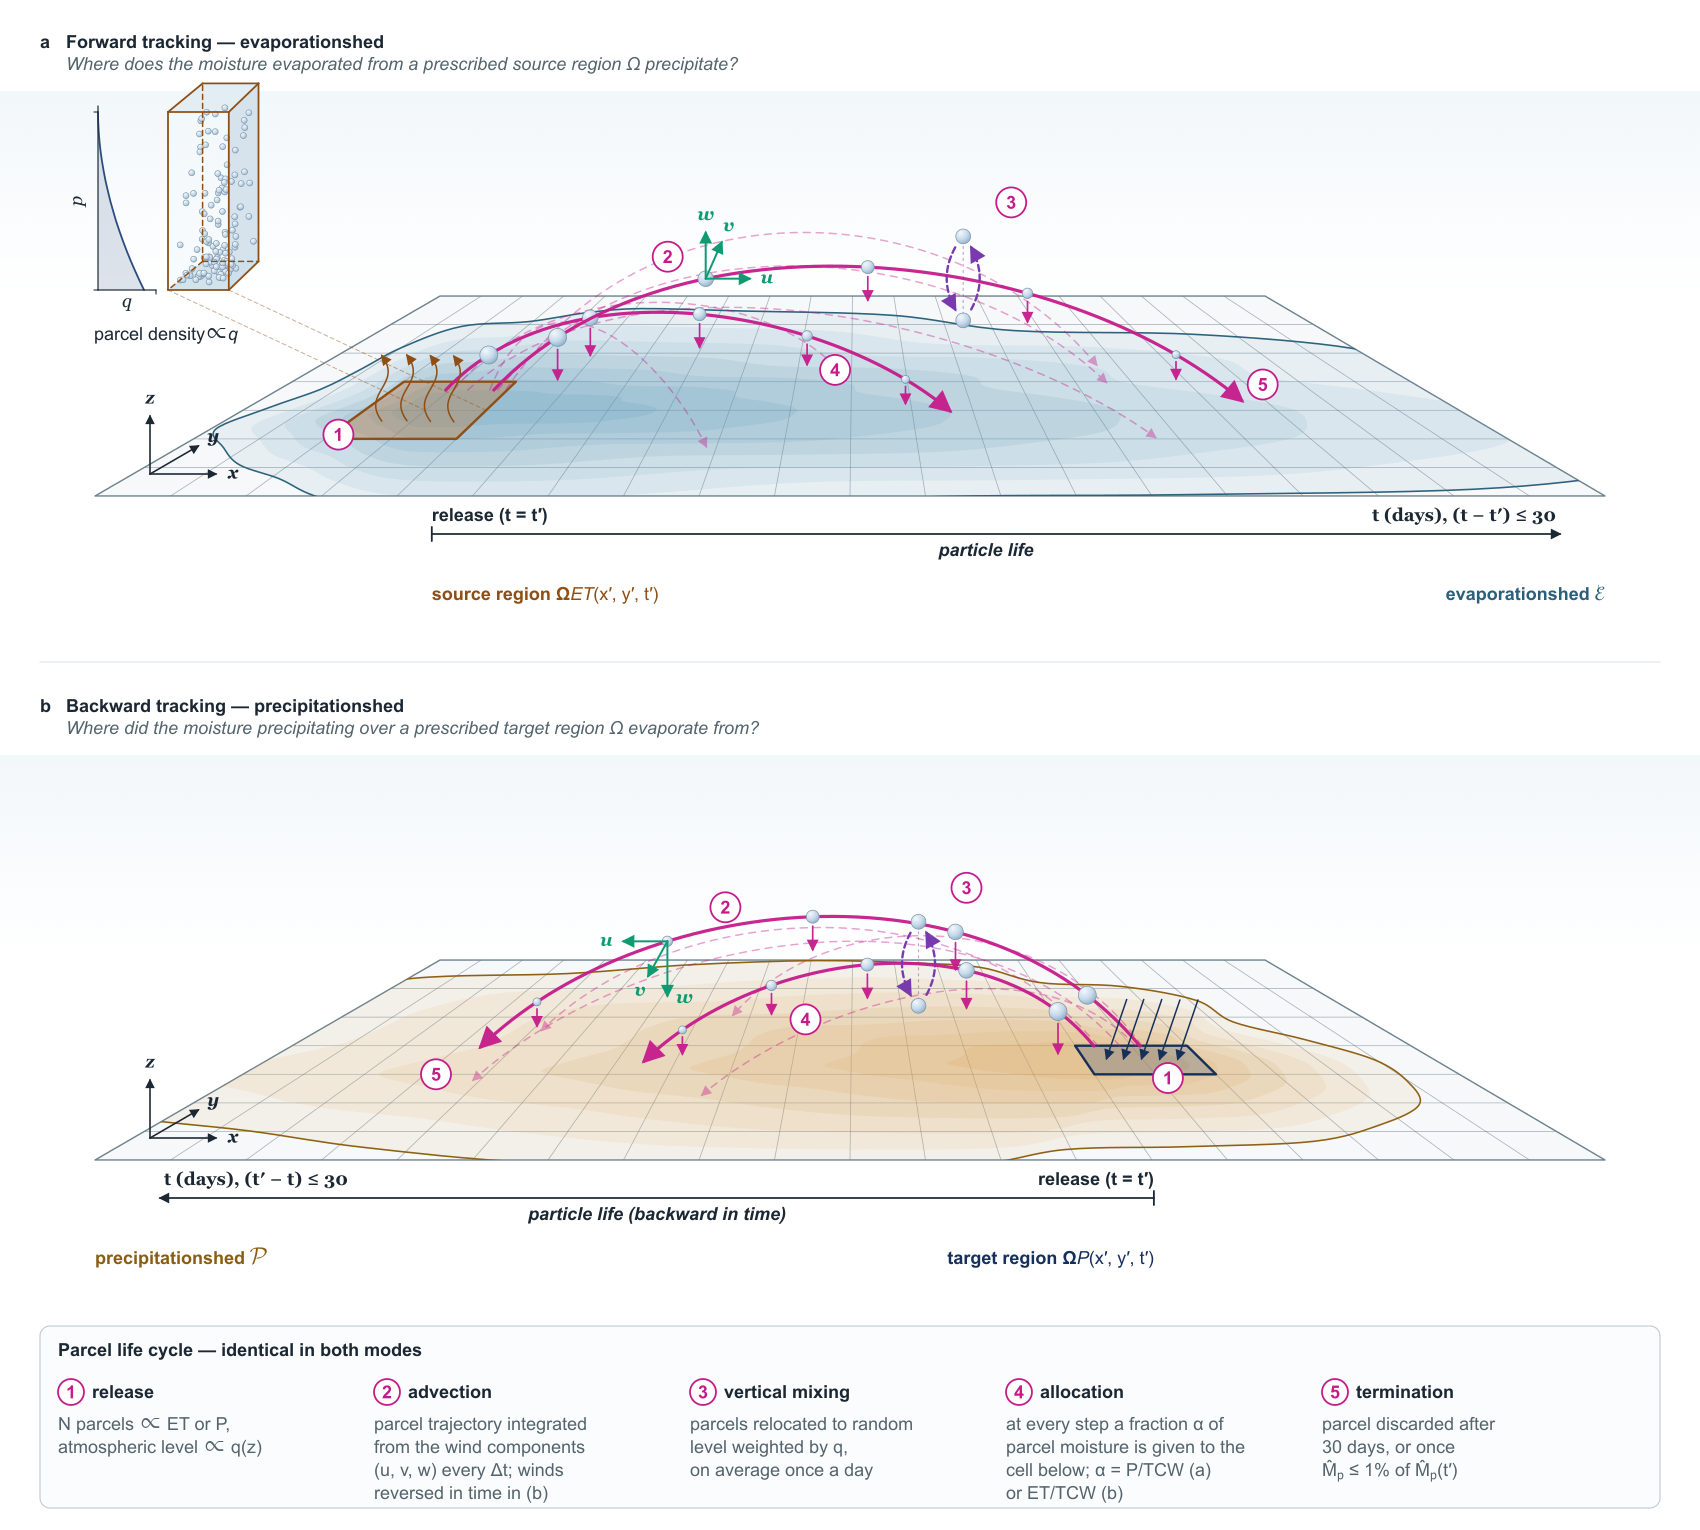
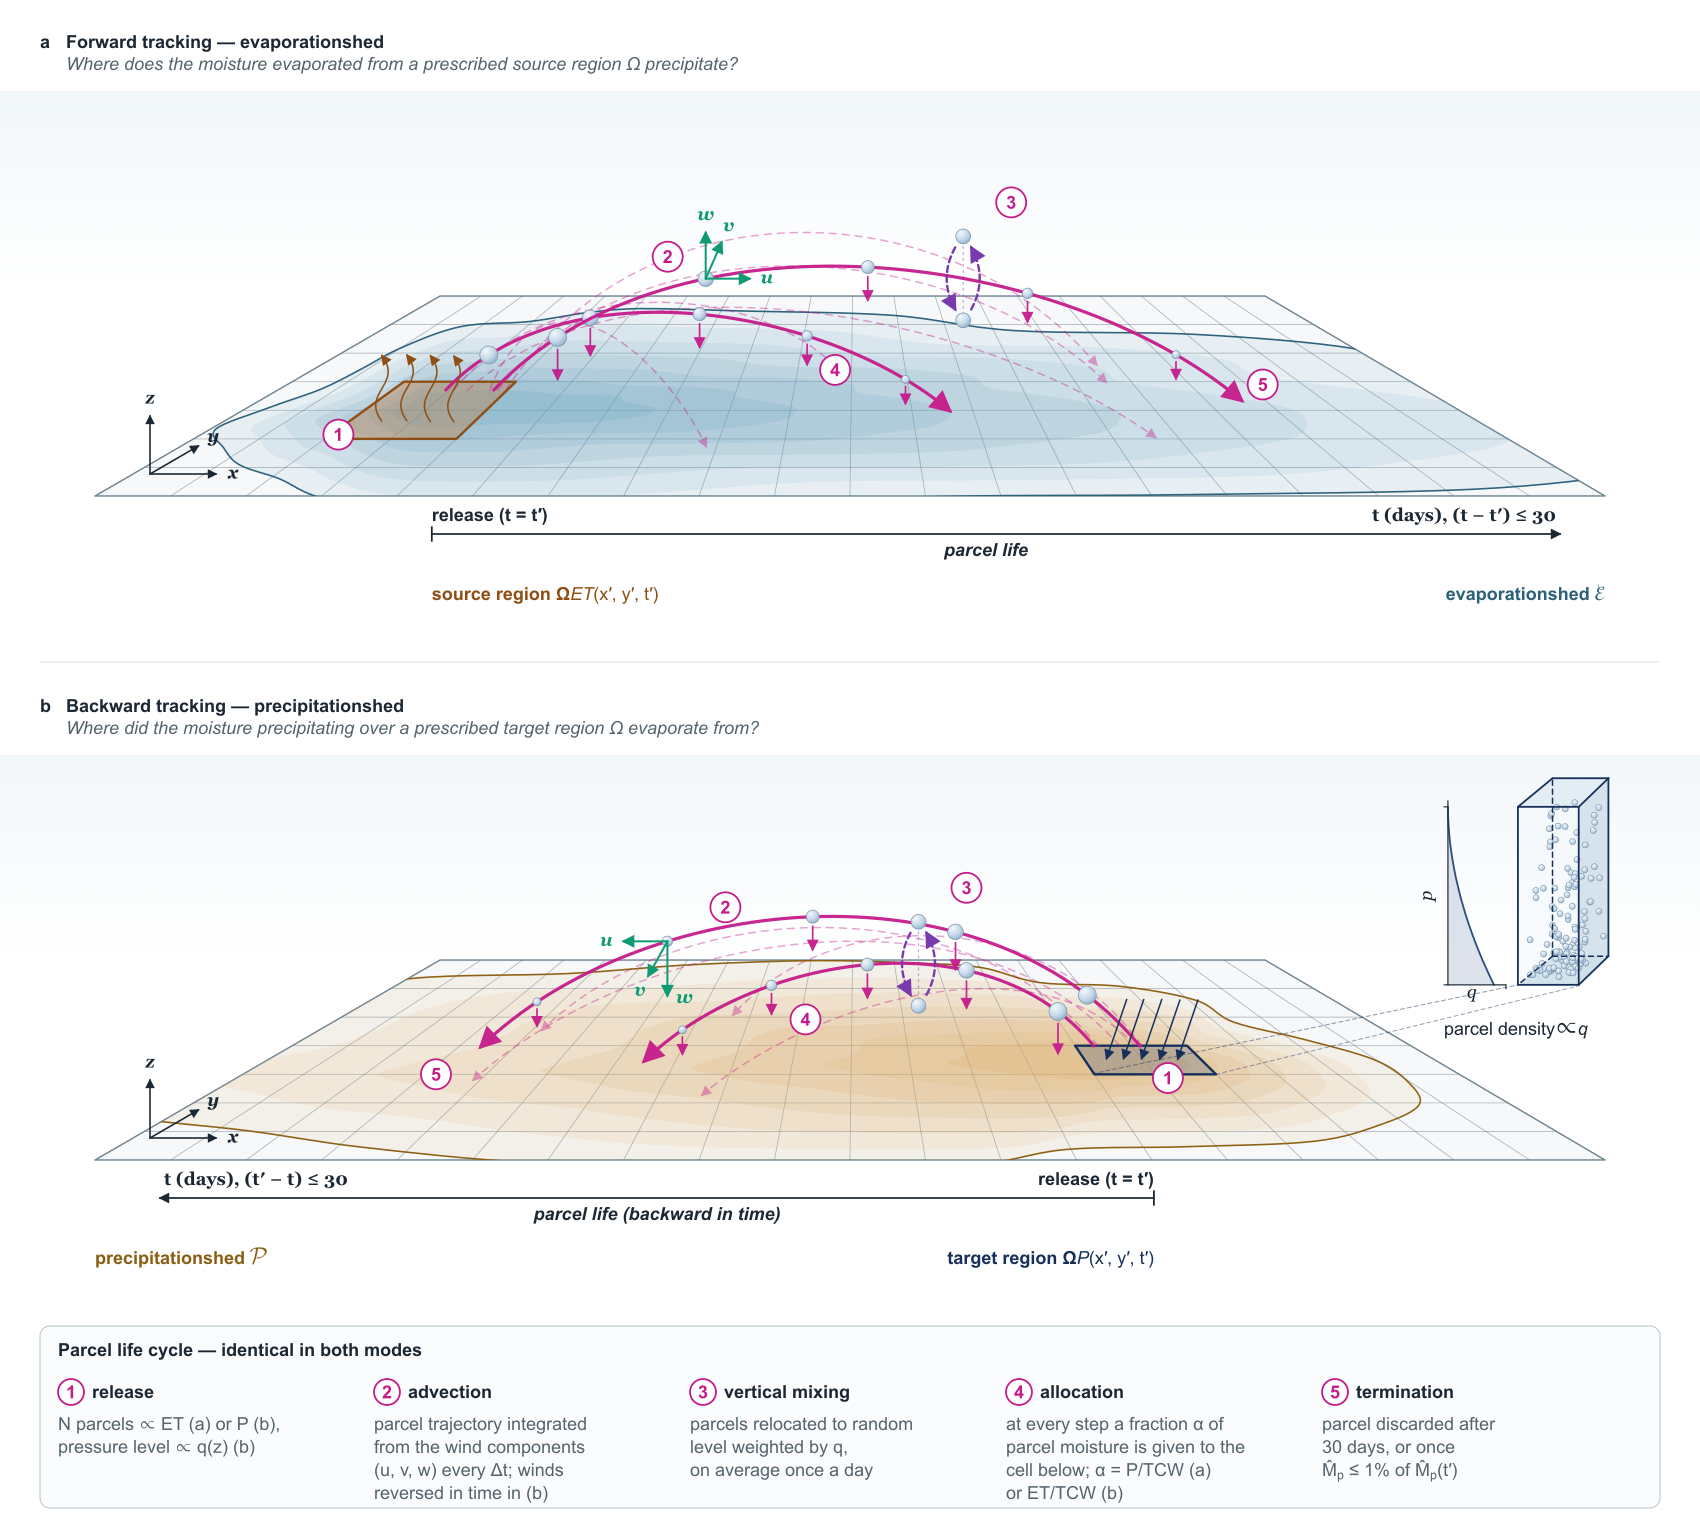
main_script, readme and figured

diff --git a/src/UTrack_SPINUP_tracking_indic_diagn_interp.py b/src/UTrack_SPINUP_tracking_indic_diagn_interp.py
@@ -617,43 +617,43 @@ def main():
     ds_out.lon.attrs["units"] = "degrees_east"
 
     ds_out.raw_identified.attrs["long_name"] = (
-        "Diagnosed moisture volume (mm*m2 from source)"
+        "Diagnosed moisture volume"
     )
-    ds_out.raw_identified.attrs["units"] = "mm * m2"
+    ds_out.raw_identified.attrs["units"] = "mm m2"
 
     ds_out.reference_output_ERA5.attrs["long_name"] = (
-        "Total Reference output (ERA5 P if fwd, ET if bwd) accumulated during target period"
+        "Total Reference output (ERA5 P if fwd, ET if bwd) diagnosed during identification period"
     )
-    ds_out.reference_output_ERA5.attrs["units"] = "mm * m2"
+    ds_out.reference_output_ERA5.attrs["units"] = "mm m2"
 
     ds_out.reference_input_ERA5.attrs["long_name"] = (
-        "Total Reference input (ERA5 ET if fwd, P if bwd) accumulated during target period"
+        "Total Reference input (ERA5 ET if fwd, P if bwd) diagnosed during identification period"
     )
-    ds_out.reference_input_ERA5.attrs["units"] = "mm * m2"
+    ds_out.reference_input_ERA5.attrs["units"] = "mm m2"
 
     ds_out.tot_lagrangian_tcw.attrs["long_name"] = (
-        "Cumulative Lagrangian column Moisture Volume content"
+        "Hourly average Lagrangian Total Column Water"
     )
-    ds_out.tot_lagrangian_tcw.attrs["units"] = "mm * m2"
+    ds_out.tot_lagrangian_tcw.attrs["units"] = "mm m2"
 
     ds_out.tot_era5_tcw.attrs["long_name"] = (
-        "Cumulative ERA5 Total Column Water Content"
+        "Hourly average ERA5 Total Column Water"
     )
-    ds_out.tot_era5_tcw.attrs["units"] = "mm * m2"
+    ds_out.tot_era5_tcw.attrs["units"] = "mm m2"
 
     ds_out.snap_lag_tcw.attrs["long_name"] = "Lagrangian TCW Snapshot"
-    ds_out.snap_lag_tcw.attrs["units"] = "mm * m2"
+    ds_out.snap_lag_tcw.attrs["units"] = "mm m2"
 
     ds_out.snap_era5_tcw.attrs["long_name"] = "ERA5 TCW Snapshot"
-    ds_out.snap_era5_tcw.attrs["units"] = "mm * m2"
+    ds_out.snap_era5_tcw.attrs["units"] = "mm m2"
 
     ds_out.snap_era5_flux.attrs["long_name"] = (
         "Instantaneous ERA5 reference volume (P if fwd, E if bwd)"
     )
-    ds_out.snap_era5_flux.attrs["units"] = "mm * m2"
+    ds_out.snap_era5_flux.attrs["units"] = "mm m2"
 
     ds_out.snap_lag_flux.attrs["long_name"] = "Instantaneous Model diagnosed volume"
-    ds_out.snap_lag_flux.attrs["units"] = "mm * m2"
+    ds_out.snap_lag_flux.attrs["units"] = "mm m2"
 
     ds_out.attrs["Simulation_Year"] = YEAR
     ds_out.attrs["Simulation_Month"] = MONTH
@@ -670,9 +670,9 @@ def main():
         )
 
     ds_out.attrs["Mode"] = "Single Point" if singlepoint else "Global Mask"
-    ds_out.attrs["Total_Net_Released_m3"] = total_released
-    ds_out.attrs["Total_Deposited_m3"] = sum_raw
-    ds_out.attrs["Scaling_Factor"] = scaling_factor
+    ds_out.attrs["Total_Net_Released_mmm2"] = total_released
+    ds_out.attrs["Total_Diagnosed_mmm2"] = sum_raw
+    ds_out.attrs["Identification_Factor"] = scaling_factor
 
     if singlepoint:
         ds_out.attrs["Point_Coords"] = f"{single_point_coords}"

diff --git a/README.md b/README.md
@@ -1,6 +1,6 @@
 # UTrack: Lagrangian Atmospheric Moisture Tracking Model
 
-[![DOI](https://zenodo.org/badge/DOI/10.5281/zenodo.XXXXXXX.svg)](https://doi.org/10.5281/zenodo.22706884)
+[![DOI](https://zenodo.org/badge/DOI/10.5281/zenodo.22706884.svg)](https://doi.org/10.5281/zenodo.22706884)
 [![License: GPL v3](https://img.shields.io/badge/License-GPLv3-blue.svg)](LICENSE)
 [![Python 3.10+](https://img.shields.io/badge/python-3.10+-brightgreen.svg)](https://www.python.org/)
 [![Code style: ruff](https://img.shields.io/badge/code%20style-ruff-000000.svg)](https://github.com/astral-sh/ruff)
